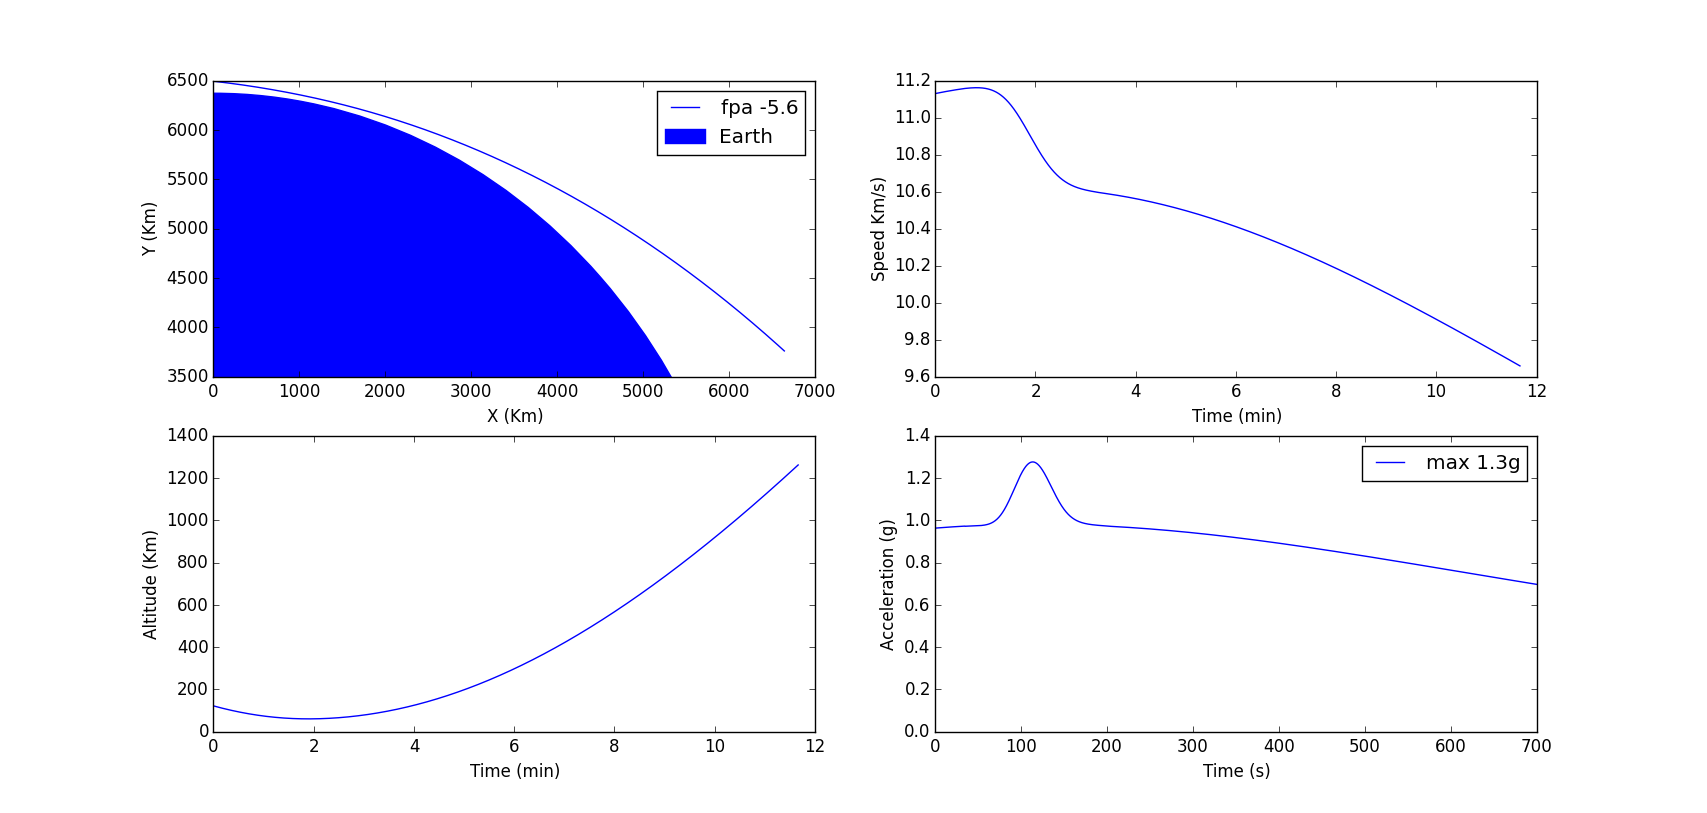
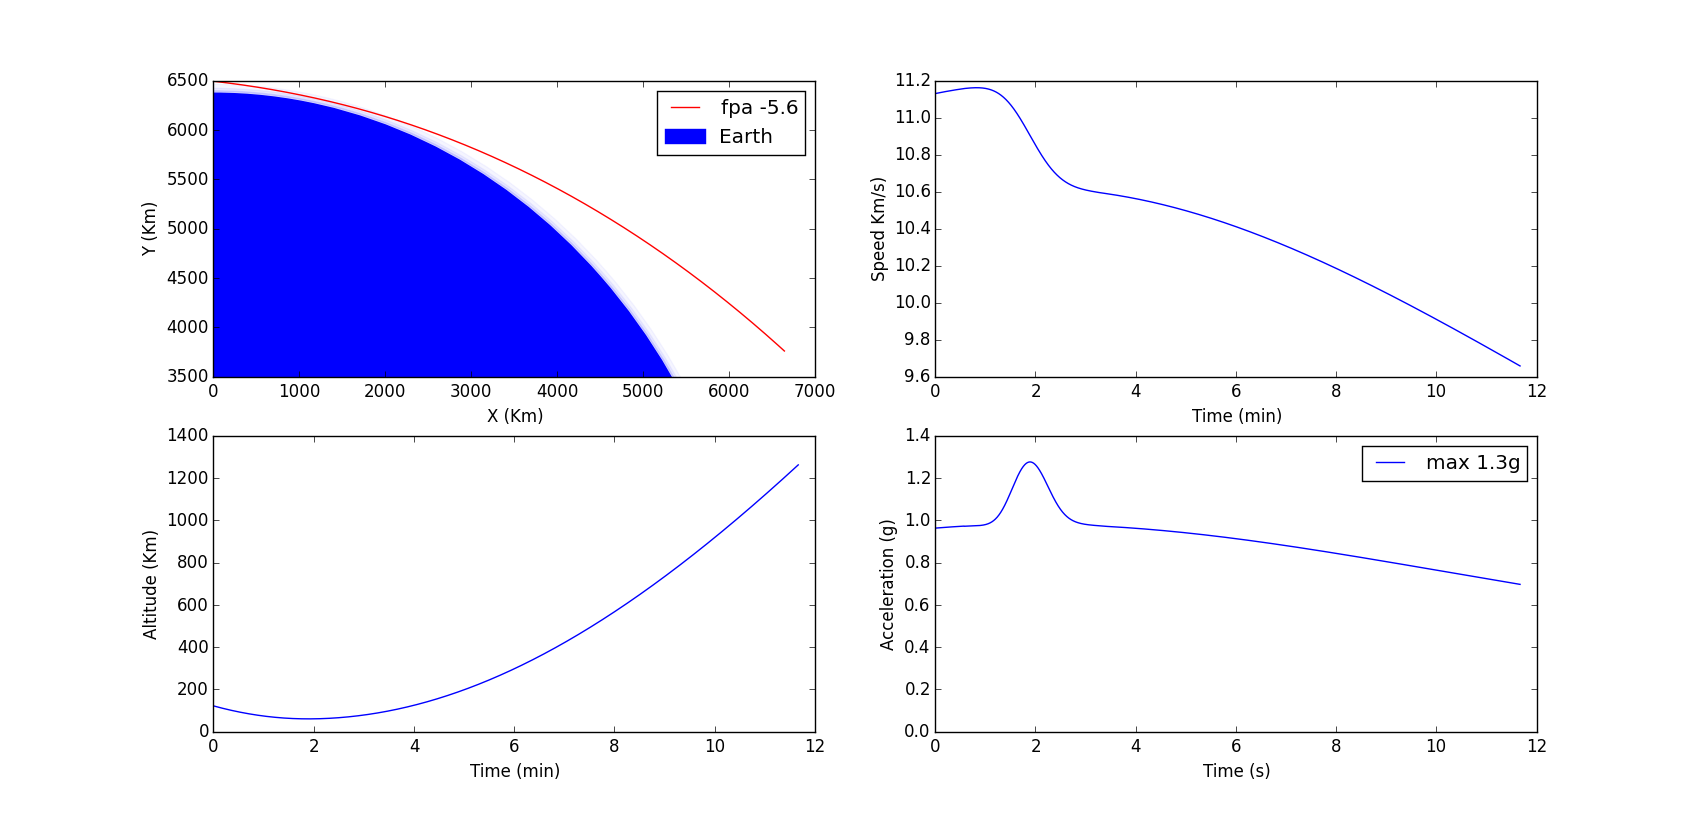
minor changes

diff --git a/apollo_reentry.py b/apollo_reentry.py
@@ -3,9 +3,9 @@
 
 import matplotlib.pyplot as plt
 from math import cos, sin, pi, sqrt
-from numpy import zeros, arange, exp, arcsin, arccos
+from numpy import zeros, exp, arcsin
 
-h = .1          # stepsize used in RK4 (sec)
+h = .01          # stepsize used in RK4 (sec)
 
 mass = 5621.    #  mass of object (kg)
 ref_area = 11.631   #  reference cross section area - used for drag (m^2)
@@ -16,11 +16,10 @@ ATMOSPHERE_HEIGHT = 90000 # 90 KM - we can ignore air drag beyond this
 G = 6.672e-11   # universal gravitation constant
 Re = 6372e3     # radius of earch (m)
 Me = 5.976e24   # mass of earth (kg)
-fpa = -6.2  # flight path angle
+fpa = -6.1  # flight path angle
 
 
-x0,y0,v0 = 0., Re + 121.8e3, 11130.
-#fpa = -5.6
+x0,y0,v0 = 0., Re + 121.8e3, 11130.     # initial altitude (m), Initial speed (m/s)
 
 POS_X = 0
 POS_Y = 1
@@ -191,7 +190,7 @@ curr_drag_acceleration = 0.
 
 ENABLE_DRAG = True
 trajectory = get_trajectory(x0, y0, v0, fpa) 
-tmp_plot_1, = ax1.plot([x0i[POS_X]/1000. for ti,x0i in trajectory], [x0i[POS_Y]/1000. for ti,x0i in trajectory], label='fpa ' + str(fpa))
+tmp_plot_1, = ax1.plot([x0i[POS_X]/1000. for ti,x0i in trajectory], [x0i[POS_Y]/1000. for ti,x0i in trajectory], color='r', label='fpa ' + str(fpa))
 tmp_plot_2, = ax2.plot([ti/60. for ti,x0i in trajectory], [sqrt(x0i[POS_VX]**2 + x0i[POS_VY]**2)/1000. for ti,x0i in trajectory], label='fpa ' + str(fpa))
 tmp_plot_3, = ax3.plot([ti/60. for ti,x0i in trajectory], [x0i[TMP_POS_A] for ti,x0i in trajectory], label='max ' + str(round(max_acceleration,1)) + 'g')
 tmp_plot_4, = ax4.plot([ti/60. for ti,x0i in trajectory], [(sqrt(x0i[POS_X]**2 + x0i[POS_Y]**2) - Re)/1000. for ti,x0i in trajectory], label='fpa ' + str(fpa))
@@ -201,6 +200,11 @@ ax3_handles.append(tmp_plot_3)
 ax4_handles.append(tmp_plot_4)
 
 earth = ax1.add_artist(plt.Circle((0,0),Re/1000.0,color="b",fill=True,label='Earth'))
+ax1.add_artist(plt.Circle((0,0),(Re/1.0e3+25),color="b",alpha=0.1))
+ax1.add_artist(plt.Circle((0,0),(Re/1.0e3+50),color="b",alpha=0.05))
+ax1.add_artist(plt.Circle((0,0),(Re/1.0e3+90),color="b",alpha=0.04))
+
+  
 ax1_handles.append(earth)
 ax1.set_xlabel('X (Km)')
 ax1.set_ylabel('Y (Km)')
